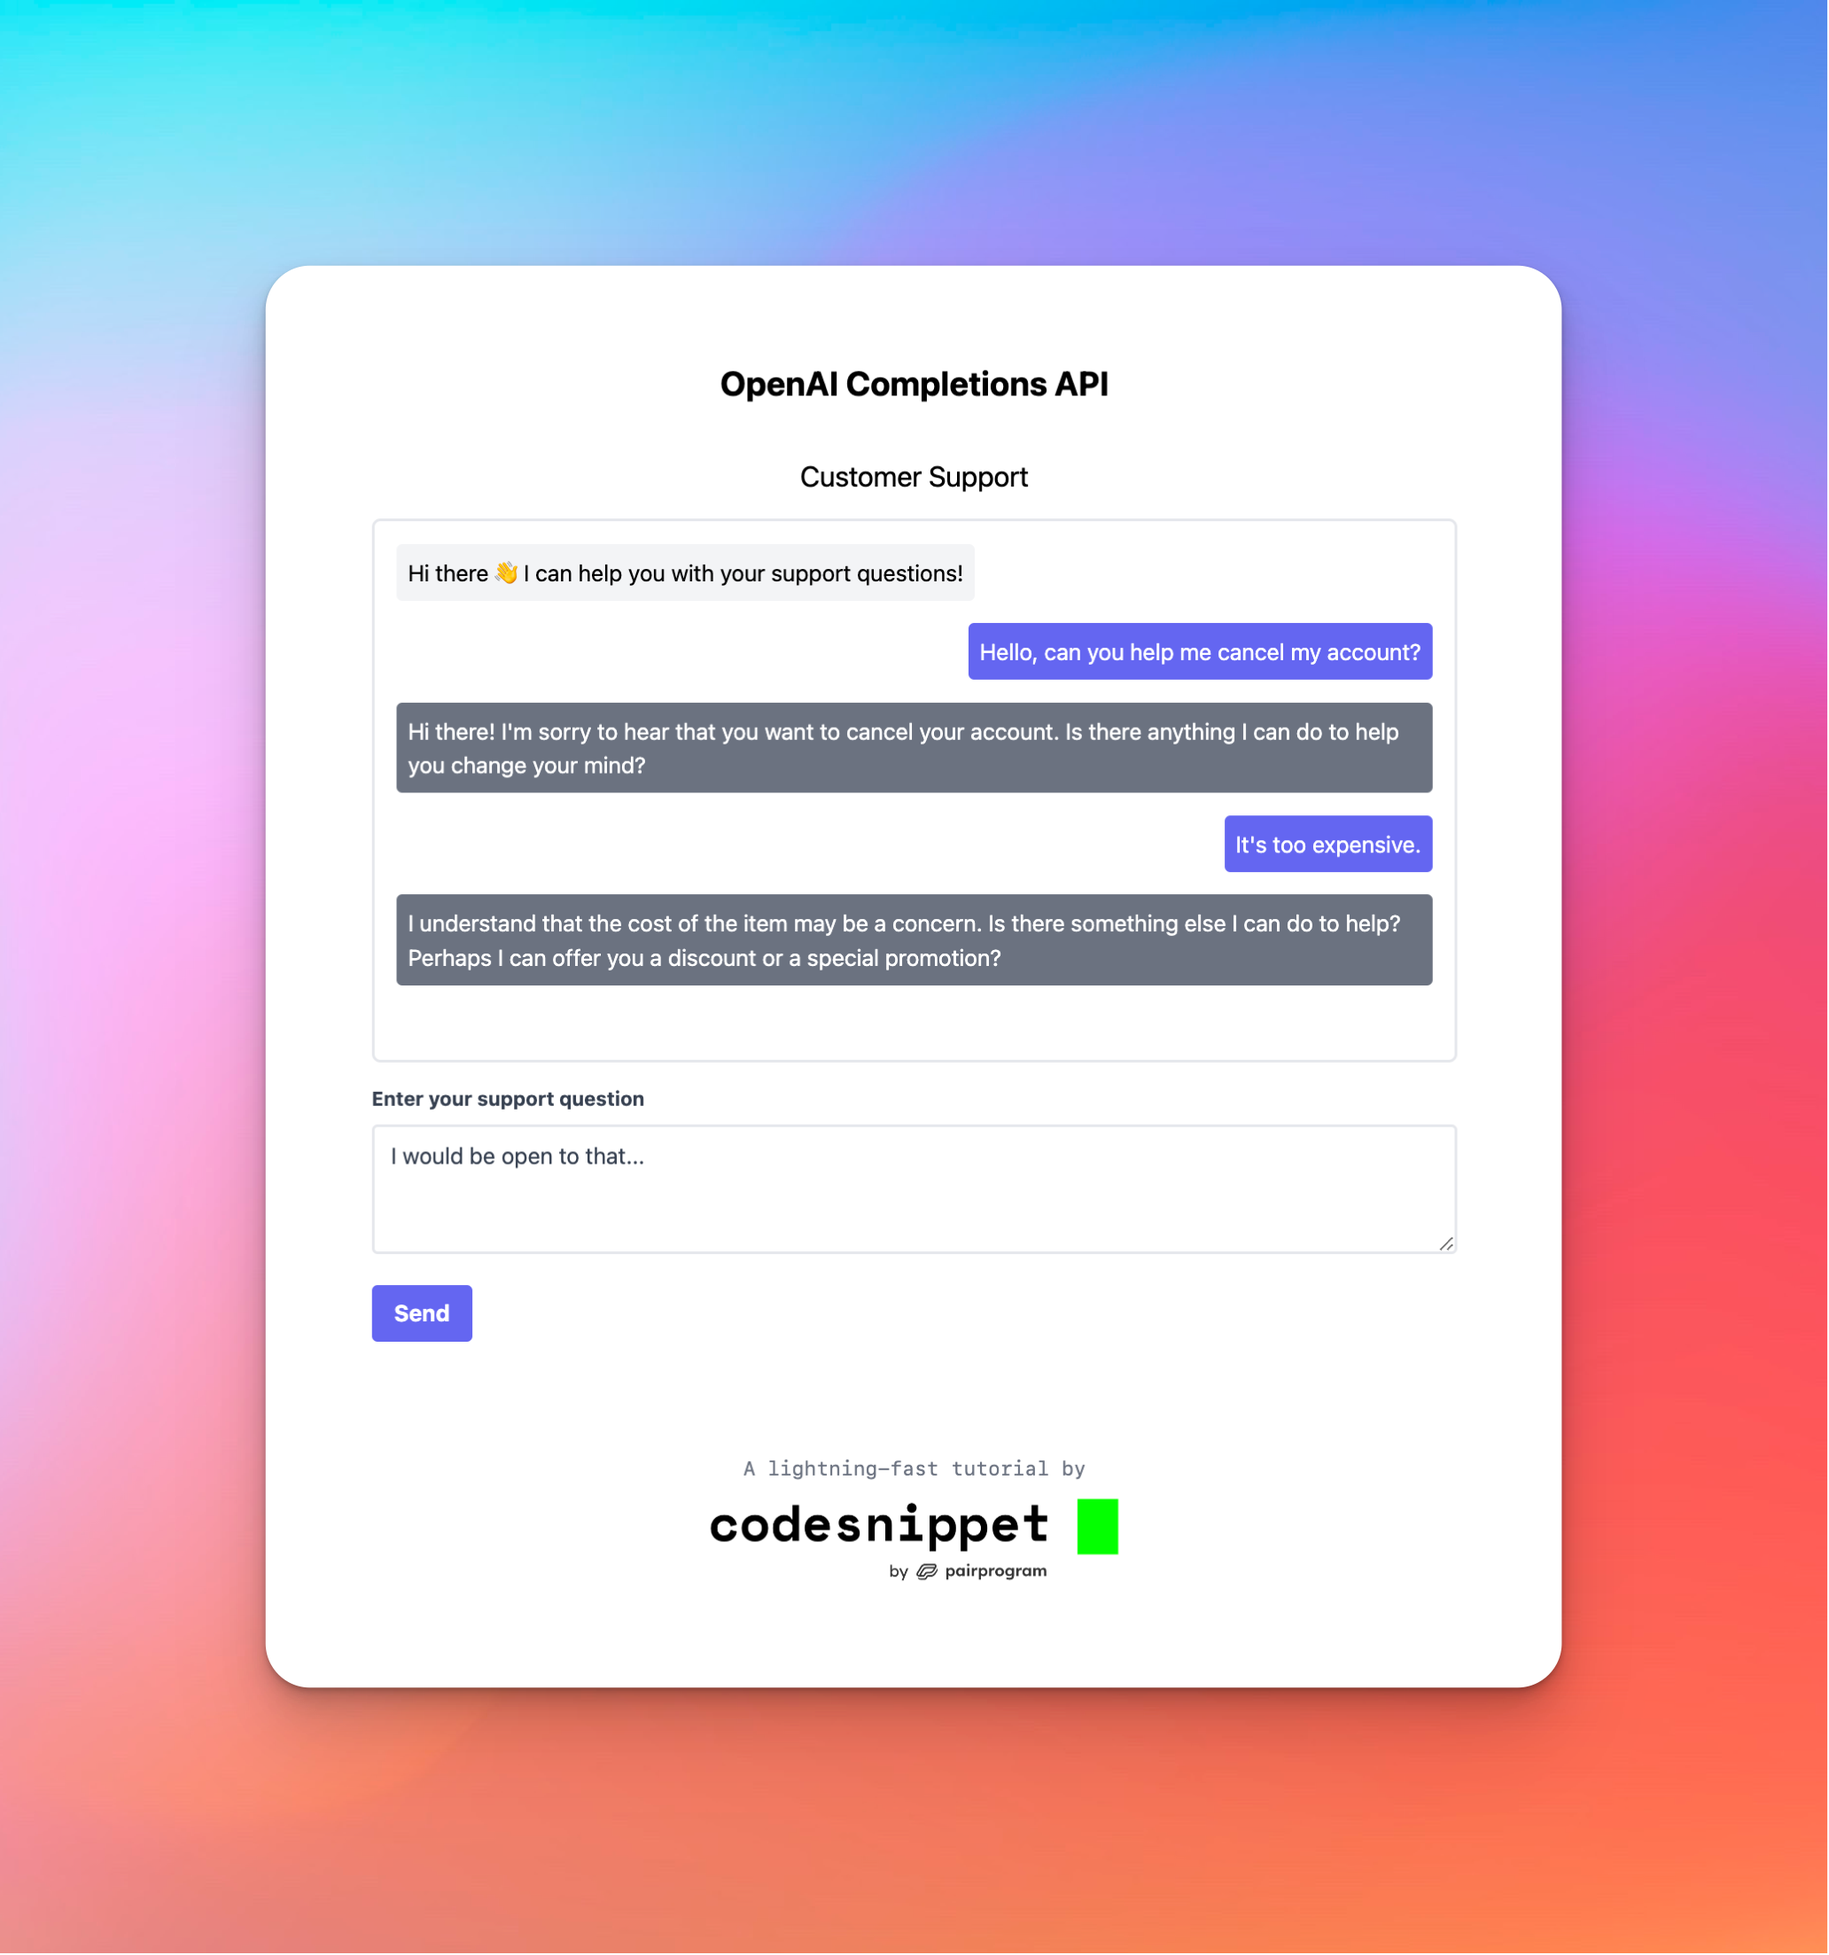
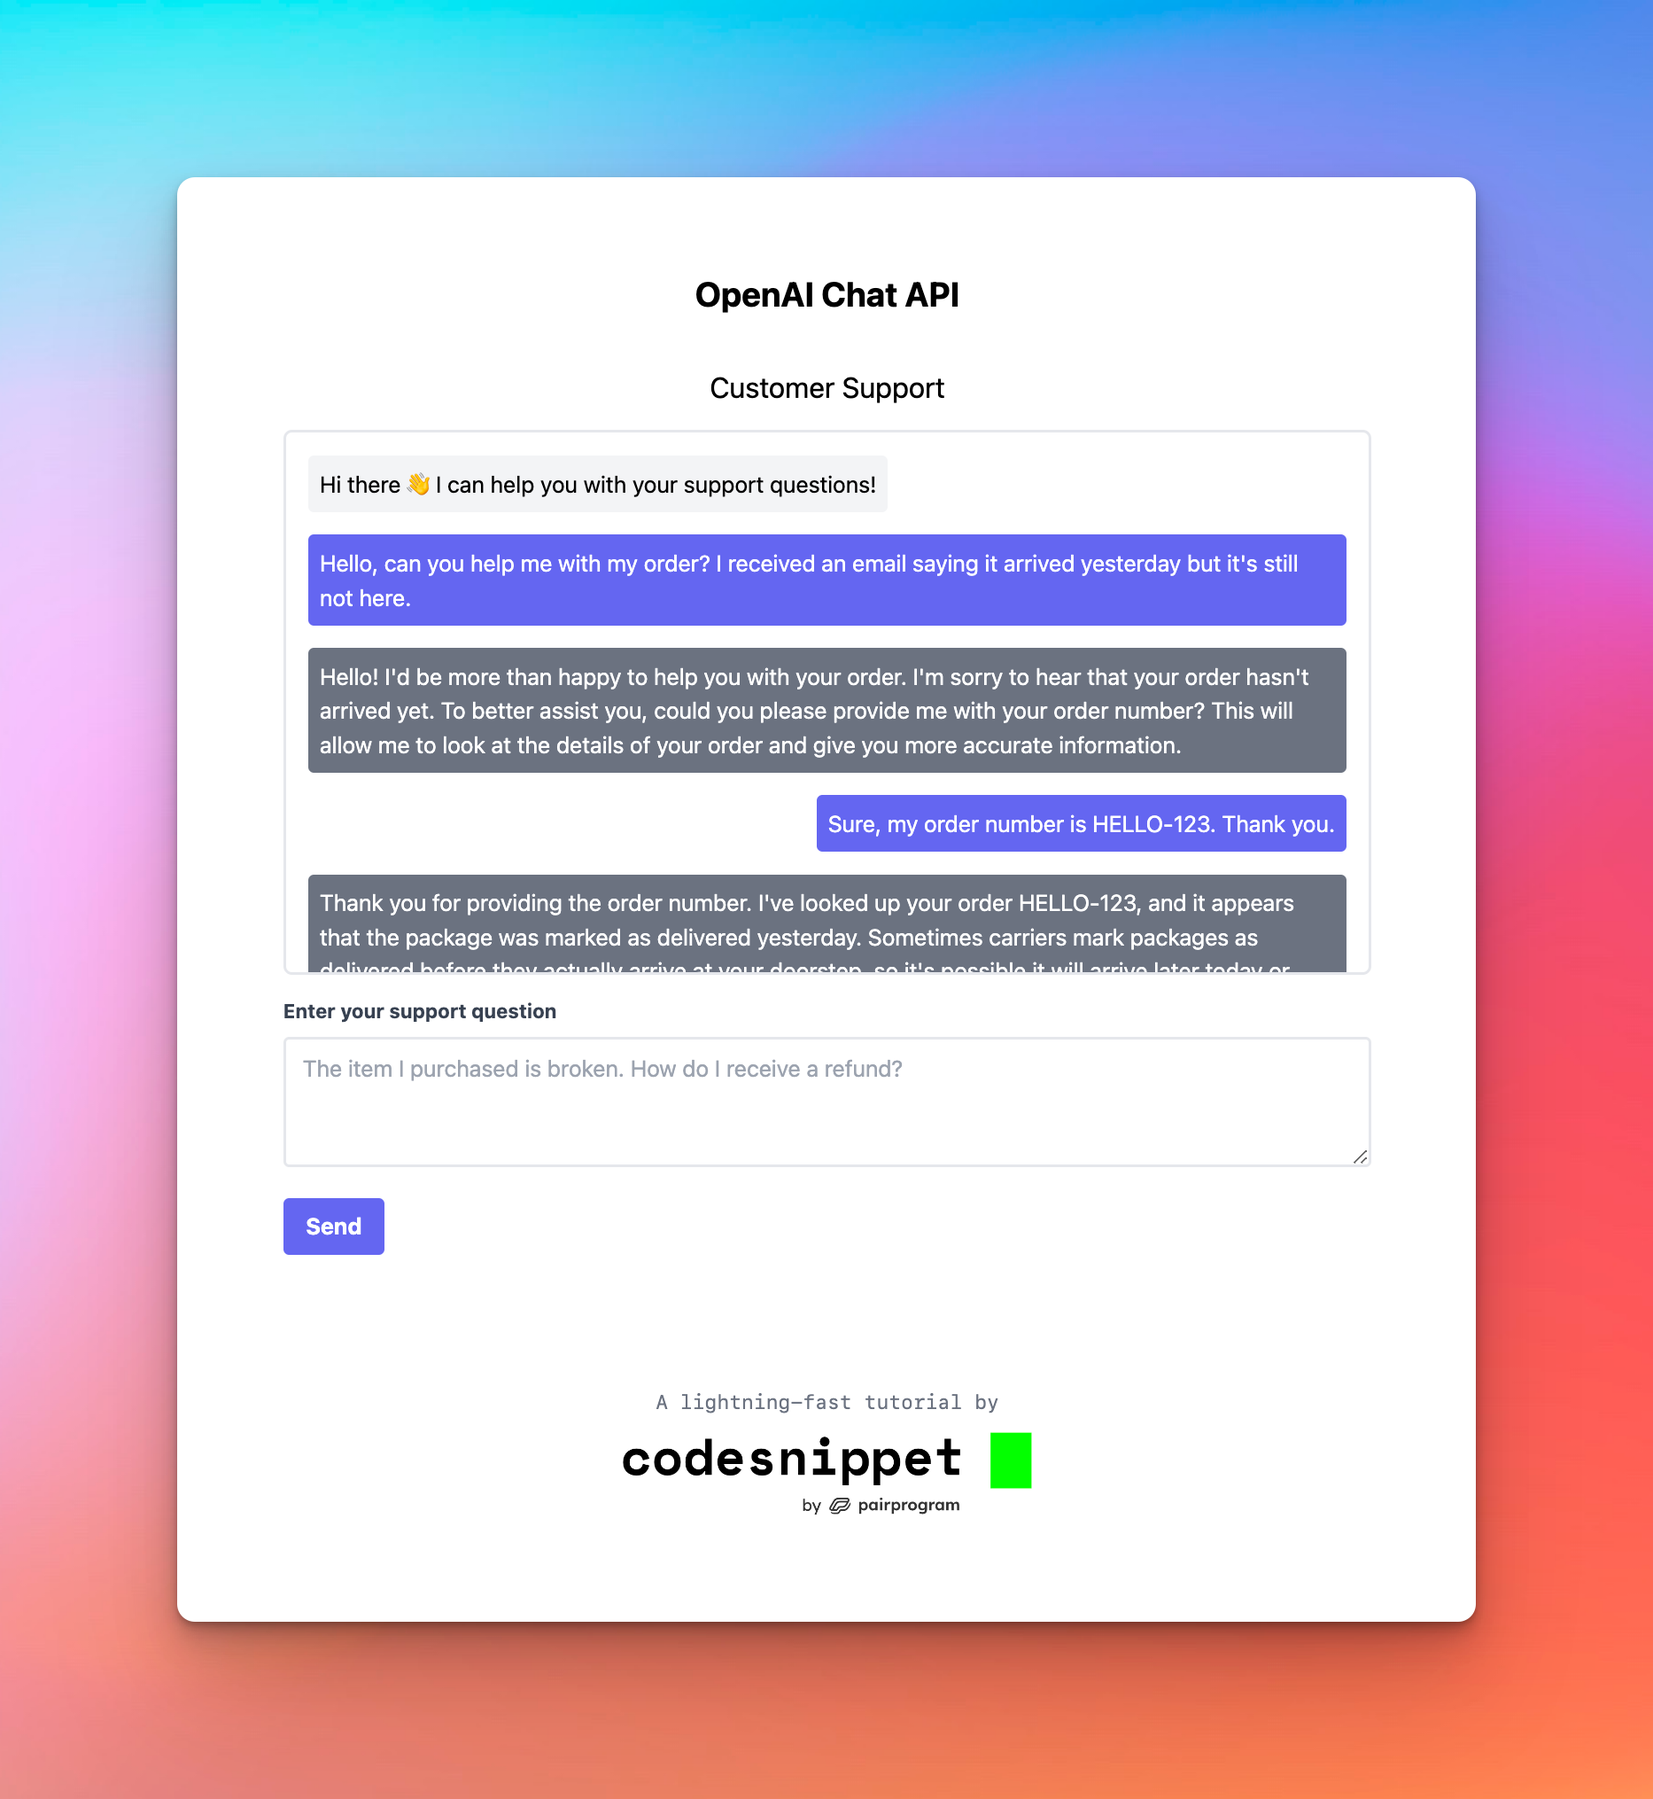
update project to use chat completions api

Changed region(s): [[0.0932, 0.0931, 0.9325, 0.9621], [0.0, 0.0, 1.0, 1.0], [0.4973, 0.5897, 0.5284, 0.6207]]

diff --git a/client/app/index.js b/client/app/index.js
@@ -1,76 +1,125 @@
 // handle when the user submits a question through the form
-async function handleSubmitQuestion(question) {
-
+async function handleSubmitMessage(message) {
     // input validation
-    if (!question) {
+    if (!message) {
         return alert('Please enter your support question');
     }
 
     // add the user's question to the DOM
-    addUserQuestionToDialogueBox(question);
+    addUserMessageToDialogueBox(message);
 
-    // fetch request to openai completions api that logs the response
+    // send fetch request to our backend endpoint
     const response = await fetch('/api/openai', {
         method: 'POST',
         headers: {
             'Content-Type': 'application/json',
         },
-        body: JSON.stringify({ question }),
+        body: JSON.stringify({ message }),
     });
 
-    // parse the response as json
-    const { data } = await response.json();
-    return data
+    // parse our server's response as json
+    const payload = await response.json();
+
+    // return the response
+    return payload
 }
 
 // add the user's question to the dialogue box
-function addUserQuestionToDialogueBox(question) {
+function addUserMessageToDialogueBox(message) {
     // create a new li element
-    const userQuestion = document.createElement('li');
+    const userMessage = document.createElement('li');
 
     // add user-specific styling to element
-    userQuestion.classList.add('bg-indigo-500', 'text-white', 'rounded', 'p-2', 'w-fit', 'self-end', 'break-words');
+    userMessage.classList.add('bg-indigo-500', 'text-white', 'rounded', 'p-2', 'w-fit', 'self-end', 'break-words');
 
-    // add the user's question to the element
-    userQuestion.innerText = question;
+    // add the user's message to the element
+    userMessage.innerText = message;
 
     // add the li element to the DOM
-    document.getElementById('dialogue').appendChild(userQuestion);
+    document.getElementById('dialogue').appendChild(userMessage);
 
     // clear the input for the next question
     document.getElementById('prompt-input').value = '';
+
+    // display loading indicator in dialogue box
+    addLoadingIndicatorToDialogueBox();
+}
+
+// add the loading indicator to the dialogue box
+function addLoadingIndicatorToDialogueBox() {
+    // create a new li element
+    const loadingIndicator = document.createElement('li');
+
+    // set the id of the loading indicator
+    loadingIndicator.id = 'loading-indicator';
+
+    // add loading indicator styling
+    loadingIndicator.classList.add('bg-gray-500', 'text-white', 'rounded', 'p-2', 'w-fit', 'self-start', 'w-12');
+
+    // create a new image element
+    const loadingImage = document.createElement('img');
+
+    // set the image source
+    loadingImage.src = '../images/loading.svg';
+
+    // add loading indicator image as a child to li element
+    loadingIndicator.appendChild(loadingImage);
+
+    // add the li element to the DOM
+    document.getElementById('dialogue').appendChild(loadingIndicator);
+}
+
+// remove the loading indicator from the dialogue box
+function removeLoadingIndicatorFromDialogueBox() {
+    // get the loading indicator element
+    const loadingIndicator = document.getElementById('loading-indicator');
+
+    // remove the loading indicator from the DOM
+    loadingIndicator.remove();
 }
 
 // add the chatbot's response to the dialogue box
-function addBotResponseToDialogueBox(response) {
+function addBotMessageToDialogueBox(response) {
+    // remove the loading indicator now that the response has been received
+    removeLoadingIndicatorFromDialogueBox();
+
     // create a new li element
-    const botResponse = document.createElement('li');
+    const botMessage = document.createElement('li');
 
-    // add user-specific styling to element
-    botResponse.classList.add('bg-gray-500', 'text-white', 'rounded', 'p-2', 'w-fit', 'self-start');
+    // style the bot response element based on the status
+    if (response.status === "error") {
+        // add error styling
+        botMessage.classList.add('bg-red-500', 'text-white', 'rounded', 'p-2', 'w-fit', 'self-start');
 
-    // add the user's response to the element
-    botResponse.innerText = response.trim();
+        // add error text
+        botMessage.innerText = "Oh no! Something went wrong. Please try again later.";
+    } else {
+        // add user-specific styling to element
+        botMessage.classList.add('bg-gray-500', 'text-white', 'rounded', 'p-2', 'w-fit', 'self-start');
+
+        // add the user's response to the element
+        botMessage.innerText = response.data.trim();
+    }
 
     // add the li element to the DOM
-    document.getElementById('dialogue').appendChild(botResponse);
+    document.getElementById('dialogue').appendChild(botMessage);
 
     // clear the input for the next response
     document.getElementById('prompt-input').value = '';
 }
 
 // when the window loads, add an event listener to the form
-// that calls the handleSubmitQuestion function when the form is submitted
+// that calls the handleSubmitMessage function when the form is submitted
 window.onload = () => document.getElementById('prompt-form').addEventListener('submit', (e) => {
     // prevent the form from refreshing the page
     e.preventDefault();
 
     // get the value of the input
-    const question = document.getElementById('prompt-input').value;
+    const message = document.getElementById('prompt-input').value;
 
     // call the function that handles the fetch request to our backend
-    handleSubmitQuestion(question).then((data) => {
+    handleSubmitMessage(message).then((data) => {
         // add the chatbot's response to the DOM when the fetch request is complete
-        addBotResponseToDialogueBox(data);
+        addBotMessageToDialogueBox(data);
     });
 });

diff --git a/server/main.js b/server/main.js
@@ -3,7 +3,6 @@ import * as path from 'path'
 import bodyParser from 'body-parser'
 import fetch from 'node-fetch'
 import * as dotenv from 'dotenv'
-import {enrichUserPromptWithContext} from "./utils.js";
 
 // load environment variables from .env file
 dotenv.config();
@@ -17,34 +16,76 @@ app.use(bodyParser.json())
 // serve static files from client folder (js, css, images, etc.)
 app.use(express.static(path.join(process.cwd(), 'client')))
 
+// define a list of messages to be used as context for the chat
+// using the global scope that way it can be used elsewhere on the server, if needed
+// (this use of `global` shouldn't be done in a "real" app)
+global.messages = [
+    {
+        role: "system",
+        content: "You are a helpful, empathetic, and friendly customer support specialist. You are here to help customers with their orders. You sometimes make small talk."
+    },
+    {
+        role: "system",
+        content: "Additionally, you never ask the customer to upload or provide any photos as our website has no means of doing so at this time. Also, do not mention that you are a bot."
+    },
+];
+
 // create http post endpoint that accepts user input
-// and sends it to OpenAI Completions API
+// and sends it to OpenAI Chat API
 // then returns the response to the client
 app.post('/api/openai', async (req, res) => {
-    const { question } = req.body;
+    const { message } = req.body;
+
+    // store user message in global message state
+    const userMessage = { role: "user", content: message };
+
+    // add to global messages list
+    global.messages.push(userMessage);
 
     // send a request to the OpenAI API with the user's prompt
-    const response = await fetch('https://api.openai.com/v1/completions', {
+    const response = await fetch('https://api.openai.com/v1/chat/completions', {
         method: 'POST',
         headers: {
             'Content-Type': 'application/json',
             'Authorization': `Bearer ${process.env.OPENAI_API_KEY}`,
         },
         // construct the request payload
-        // to be sent to the OpenAI API,
-        // passing in an 'enriched' version
-        // of the user's prompt
+        // using the entire chat history (global.messages)
+        // sending an external request to the OpenAI API
         body: JSON.stringify({
-            model: 'text-davinci-003',
-            prompt: enrichUserPromptWithContext(question),
+            model: 'gpt-4',
+            messages: global.messages,
             // the maximum number of tokens/words the bot should return
             // in response to a given prompt
             max_tokens: 100,
         }),
     });
+
+    if (!response.ok) {
+        // if the request was not successful, parse the error
+        const error = await response.json();
+
+        // log the error for debugging purposes
+        console.error('OpenAI API Error:', error);
+
+        // return an error response to the client
+        return res.json({ status: 'error', data: null });
+    }
+
     // parse the response from OpenAI as json
     const data = await response.json();
-    res.json({ data: data.choices[0].text });
+
+    // get the bot's answer from the OpenAI API response
+    const botAnswer = data?.choices?.[0]?.message?.content
+
+    // create the bot message object
+    const botMessage = { role: "assistant", content: botAnswer };
+
+    // store bot message in global message state
+    global.messages.push(botMessage);
+
+    // send the bot's answer back to the client
+    return res.json({ status: 'success', data: botAnswer });
 });
 
 // set the port to listen on

diff --git a/server/utils.js b/server/utils.js
@@ -1,32 +1,1 @@
 // use this file to add any utility functions that you need
-export function enrichUserPromptWithContext(prompt) {
-    // enrich the user's prompt with context
-    // so that the bot can respond more naturally
-    const context = `
-The following is a conversation with an AI-powered customer support bot. The customer support bot is empathetic, helpful, enthusiastic, & friendly, and always tries to find a solution for the customer. 
-The bot occasionally uses emojis, and sometimes makes small talk. Additionally the bot should never ask the customer to upload or provide any photos.
-Here are some examples of how the bot might respond to a customer's question:
-Customer: Hello, I am very upset that my order did not arrive on time!
-Bot: I'm sorry to hear that. Can you tell me more about what happened?
-Customer: I ordered a book from your website and it was supposed to arrive in 2 days. It has been 3 weeks and I still have not received it.
-Bot: Okay, let's what we can do to help.
-Bot: I see here that your order was placed on 2020-01-01 and was supposed to arrive on 2020-01-02. I'm sorry that it didn't arrive on time.
-Bot: I would be happy to issue a credit to your account for the inconvenience. Would that work?
-Customer: No, I want a refund.
-Bot: Okay, please bear with me one moment.
-Bot: I have issued a refund for your order. Please allow 3-5 business days for the refund to appear on your account.
-Customer: Thank you!
-
-Here's another example:
-Customer: I am having trouble with my order.
-Bot: Oh no! What seems to be the problem? I want to help.
-Customer: The item I ordered is not what I expected.
-Bot: Well that's not good. I'm sorry to hear that. Let me see I can do to make things right.
-Bot: Okay, I see the problem. I can get the correct item shipped out to you right away. I'll personally send you a tracking number when it ships.
-Customer: Thank you so much!
-
-Customer: ${prompt}
-Bot:
-`
-    return context;
-}

diff --git a/client/index.html b/client/index.html
@@ -4,9 +4,9 @@
 <head>
     <meta charset="UTF-8">
     <meta name="author" content="CodeSnippet.io">
-    <meta name="title" content="OpenAI Completions API | CodeSnippet.io">
-    <meta name="description" content="How to use the OpenAI Completions API">
-    <title>OpenAI Completions API | CodeSnippet.io</title>
+    <meta name="title" content="OpenAI Chat API | CodeSnippet.io">
+    <meta name="description" content="How to use the OpenAI Chat API">
+    <title>OpenAI Chat API | CodeSnippet.io</title>
     <link rel="icon" type="image/png" href="images/favicon.ico">
     <script src="https://cdn.tailwindcss.com"></script>
 </head>
@@ -15,7 +15,7 @@
 <div id="root" class="flex flex-col min-h-screen p-16">
 
     <main class="grow flex flex-col items-center justify-center">
-        <h1 class="text-center text-2xl mt-5 font-bold my-4">OpenAI Completions API</h1>
+        <h1 class="text-center text-2xl mt-5 font-bold my-4">OpenAI Chat API</h1>
         <h2 class="text-center text-xl mt-5 my-4">Customer Support</h2>
         <section class="w-full max-w-3xl border-2 border-gray-200 rounded-md p-4 h-96 overflow-scroll">
             <ul id="dialogue" class="flex flex-col space-y-4">
@@ -49,7 +49,7 @@
     <footer>
         <div class="text-center mt-5 flex flex-col items-center space-y-2">
             <p class="text-gray-500 font-mono text-sm">A lightning-fast tutorial by </p>
-            <a href="https://codesnippet.io?ref=openai-completions-api" class="text-indigo-500 font-semibold underline">
+            <a href="https://codesnippet.io?ref=openai-chat-api" class="text-indigo-500 font-semibold underline">
                 <img class="h-16" src="images/logo.png" alt="CodeSnippet.io by PairProgram.com">
             </a>
         </div>

diff --git a/README.md b/README.md
@@ -1,9 +1,9 @@
-# How to Use the OpenAI Completions API
+# How to Use the OpenAI Chat API (Chat GPT)
 ###### By [Tim Wheeler](https://timwheeler.com?ref=github) from [CodeSnippet.io](https://codesnippet.io?ref=github)
 
-[![Hits](https://hits.seeyoufarm.com/api/count/incr/badge.svg?url=https%3A%2F%2Fgithub.com%2FCodeSnippetHQ%2Ftutorial-openai-completions-api&count_bg=%2379C83D&title_bg=%23555555&icon=&icon_color=%23E7E7E7&title=hits&edge_flat=false)](https://hits.seeyoufarm.com)
+[![Hits](https://hits.seeyoufarm.com/api/count/incr/badge.svg?url=https%3A%2F%2Fgithub.com%2FCodeSnippetHQ%2Ftutorial-openai-chat-api&count_bg=%2379C83D&title_bg=%23555555&icon=&icon_color=%23E7E7E7&title=hits&edge_flat=false)](https://hits.seeyoufarm.com)
 
-In this project we will learn how to use the OpenAI Completions API to build a simple customer support chatbot.
+In this project we will learn how to use the OpenAI Chat API to build a simple customer support chatbot.
 
 ![project](client/images/project.png)
 
@@ -26,7 +26,7 @@ To run this project:
 4. Open `localhost:3000` in your browser to view the project
 
 ## 📄 API Docs
-OpenAI Completion API docs: https://beta.openai.com/docs/api-reference/completions/create
+OpenAI Chat API docs: https://platform.openai.com/docs/api-reference/chat
 
 ---
 ## 👇 Subscribe & Follow
